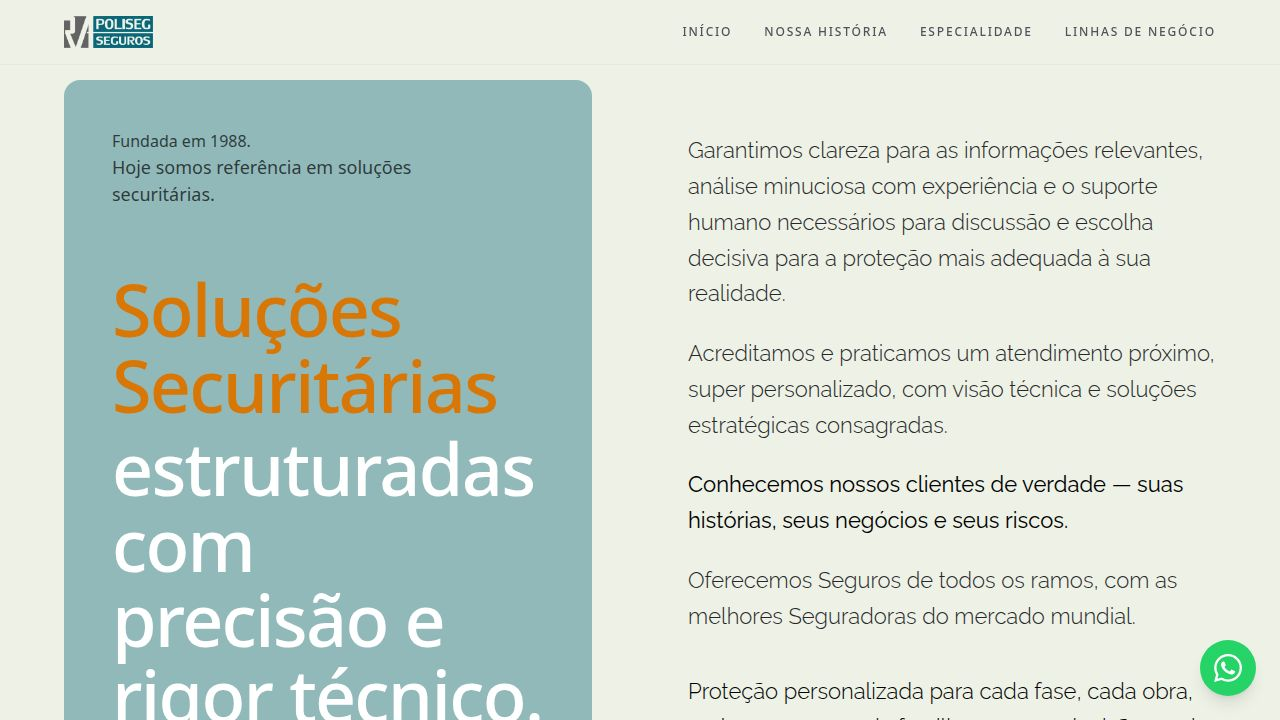
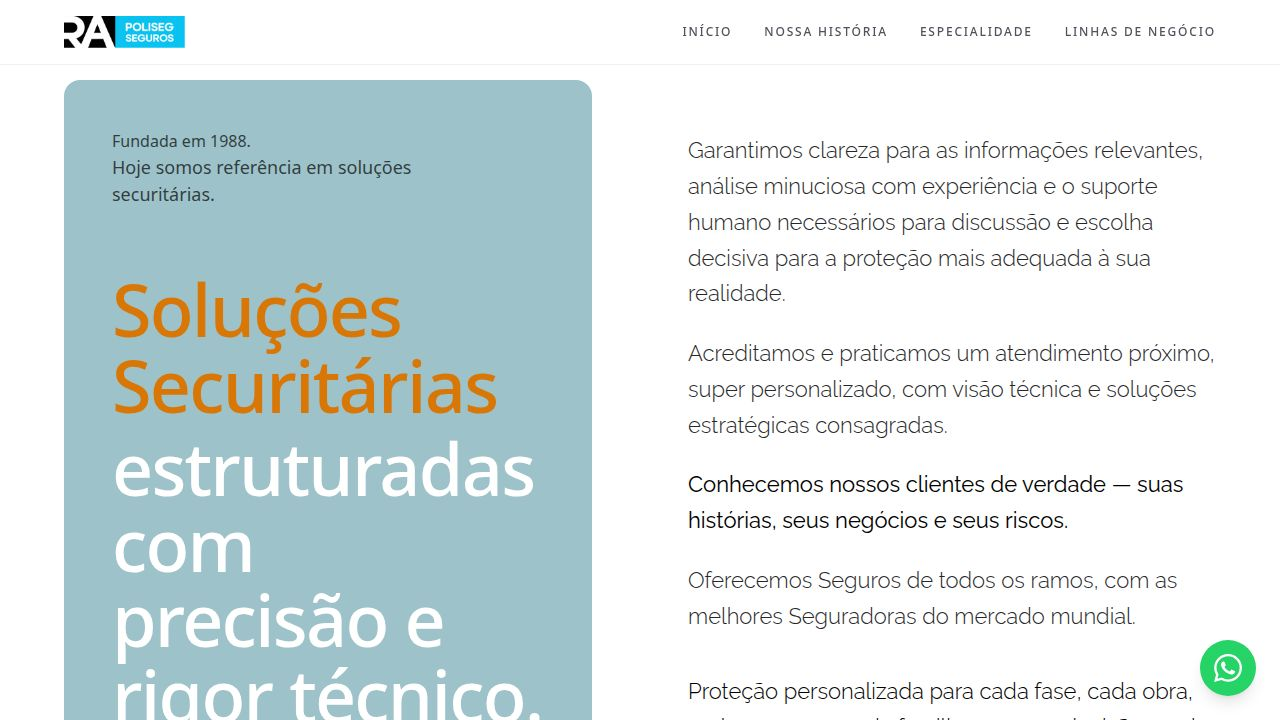
Update hero and navigation backgrounds to white
Changes background color of the hero section and navigation bar to white in `client/src/pages/Home.tsx`. Also updates the mobile menu dropdown background.

Replit-Commit-Author: Agent
Replit-Commit-Session-Id: 770e0a0e-6d8b-436d-863e-5f615ece6305
Replit-Commit-Checkpoint-Type: full_checkpoint
Replit-Commit-Event-Id: b20c6f43-a32b-4e21-bde5-e7400aed14f1
Replit-Commit-Screenshot-Url: https://storage.googleapis.com/screenshot-production-us-central1/d928ab2c-e5e8-4cf2-893e-af0c3c18f6c2/770e0a0e-6d8b-436d-863e-5f615ece6305/DrQliqS
Replit-Helium-Checkpoint-Created: true

diff --git a/client/src/pages/Home.tsx b/client/src/pages/Home.tsx
@@ -16,7 +16,7 @@ export default function Home() {
 
   return (
     <div className="min-h-screen bg-[#edf1e6] text-black font-sans selection:bg-[#FACC15] selection:text-black">
-      <nav className="fixed top-0 left-0 right-0 z-50 bg-[#edf1e6]/80 backdrop-blur-md border-b border-[#d4d4d8]/30">
+      <nav className="fixed top-0 left-0 right-0 z-50 bg-white/80 backdrop-blur-md border-b border-[#d4d4d8]/30">
         <div className="flex items-center justify-between px-4 sm:px-8 md:px-12 lg:px-16 py-3 md:py-4">
           <a href="#inicio" data-testid="link-logo-home">
             <img src="/ra_poliseg_header_logo.png" alt="RA Poliseg" className="h-6 sm:h-8" />
@@ -39,7 +39,7 @@ export default function Home() {
           </button>
         </div>
         {mobileMenuOpen && (
-          <div className="md:hidden bg-[#edf1e6]/95 backdrop-blur-md border-t border-[#d4d4d8]/30 px-4 pb-4">
+          <div className="md:hidden bg-white/95 backdrop-blur-md border-t border-[#d4d4d8]/30 px-4 pb-4">
             <ul className="flex flex-col gap-3 text-xs uppercase tracking-[0.15em] font-medium text-zinc-600 pt-3">
               <li><a href="#inicio" className="block py-2 hover:text-black transition-colors" onClick={() => setMobileMenuOpen(false)} data-testid="nav-mobile-home">Início</a></li>
               <li><a href="#historia" className="block py-2 hover:text-black transition-colors" onClick={() => setMobileMenuOpen(false)} data-testid="nav-mobile-history">Nossa História</a></li>
